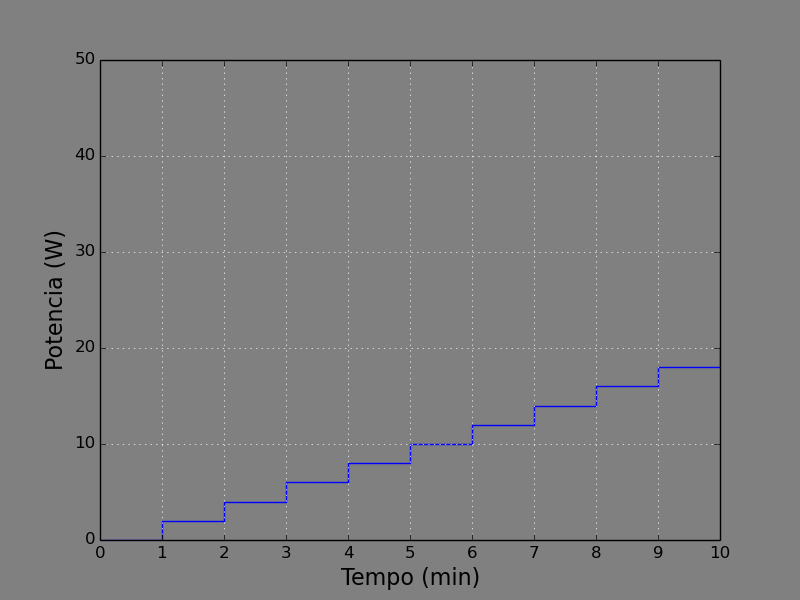
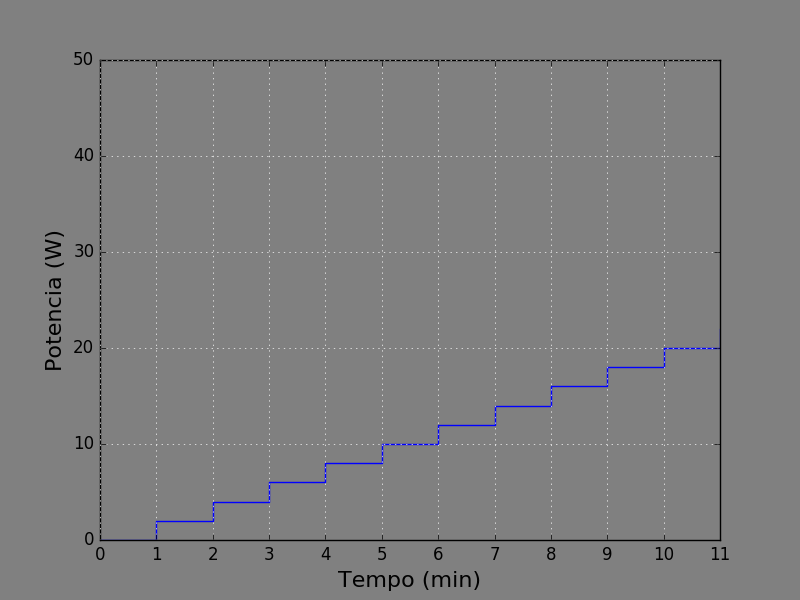
Thread para plotar no tela de escolha

diff --git a/PyQt/fifdialog.py b/PyQt/fifdialog.py
@@ -77,8 +77,8 @@ class Ui_fifDialog(object):
         self.pic.setScaledContents(True)
 
         # pylab_plot.plotMode(self,1)
-        # pixmap = QtGui.QPixmap('mode1.png')
-        # self.pic.setPixmap(pixmap)
+        pixmap = QtGui.QPixmap('mode1.png')
+        self.pic.setPixmap(pixmap)
         
         # self.frame.setFrameShape(QtGui.QFrame.StyledPanel)
         # self.frame.setFrameShadow(QtGui.QFrame.Raised)
@@ -125,8 +125,8 @@ class Ui_fifDialog(object):
         self.pushButton_3.setStyleSheet("font-weight:bold;background-color: gray;border-radius: 10px;")
         self.pushButton_4.setStyleSheet("font-weight:bold;background-color: gray;border-radius: 10px;")
         # pylab_plot.plotMode(self,1)
-        # pixmap = QtGui.QPixmap('mode1.png')
-        # self.pic.setPixmap(pixmap)  
+        pixmap = QtGui.QPixmap('mode1.png')
+        self.pic.setPixmap(pixmap)  
 
 
     def mode2 (self):
@@ -151,8 +151,8 @@ class Ui_fifDialog(object):
         self.pushButton_3.setStyleSheet("font-weight:bold;background-color: green;border-radius: 10px;")
         self.pushButton_4.setStyleSheet("font-weight:bold;background-color: gray;border-radius: 10px;")        
         # pylab_plot.plotMode(self,2)
-        # pixmap = QtGui.QPixmap('mode2.png')
-        # self.pic.setPixmap(pixmap)
+        pixmap = QtGui.QPixmap('mode2.png')
+        self.pic.setPixmap(pixmap)
 
 
 
@@ -177,8 +177,8 @@ class Ui_fifDialog(object):
         self.pushButton_3.setStyleSheet("font-weight:bold;background-color: gray;border-radius: 10px;")
         self.pushButton_4.setStyleSheet("font-weight:bold;background-color: red;border-radius: 10px;")
         # pylab_plot.plotMode(self,3) 
-        # pixmap = QtGui.QPixmap('mode3.png') 
-        # self.pic.setPixmap(pixmap)
+        pixmap = QtGui.QPixmap('mode3.png') 
+        self.pic.setPixmap(pixmap)
 
 
     def ok (self):

diff --git a/PyQt/pylab_plot.py b/PyQt/pylab_plot.py
@@ -16,23 +16,27 @@ def plotMode(mode):
 	os.listdir(os.getcwd())
 	img = "mode" + str(mode) + ".png"
 	# print img
-	sentence = [
-	"[ -f mode1.png ] && rm mode1.png",
-	"[ -f mode2.png ] && rm mode2.png",
-	"[ -f mode3.png ] && rm mode3.png"
-	]
+	# sentence = [
+	# "[ -f mode1.png ] && rm mode1.png",
+	# "[ -f mode2.png ] && rm mode2.png",
+	# "[ -f mode3.png ] && rm mode3.png"
+	# ]
+
+	sentence = "[ -f "+img+" ] && rm "+img
+	print sentence
+	os.system(sentence)
 	# print sentence
-	for k in range(len(sentence)):
-		os.system(sentence[k])
+	# for k in range(len(sentence)):
+	# 	os.system(sentence[k])
 
 
-	time_step = tempoStep[mode]
+	time_step = tempoStep[mode-1]
 	timeValue = 0 	#Tempo sempre inicia
-	potStep = potenciaStep[mode]
-	potValue = potenciaInicial[mode]
+	potStep = potenciaStep[mode-1]
+	potValue = potenciaInicial[mode-1]
 	y = [potValue]
 	x=[timeValue]
-	interval = tempo[mode]
+	interval = tempo[mode-1]
 
 	for n in range(interval/time_step):
 	# for n in range(int(interval/time_step)):
@@ -63,4 +67,3 @@ def plotMode(mode):
 	plt.axis([0, (interval), 0, 50])
 	fig.savefig(img, facecolor='gray', edgecolor='black')
 	plt.close()
-

diff --git a/PyQt/mode_operation.py b/PyQt/mode_operation.py
@@ -12,7 +12,7 @@ from thirddialog import Ui_thirdDialog
 from fifdialog import Ui_fifDialog
 from help_box import Ui_Dialog
 import parametros
-import time
+import pylab_plot
 
 try:
     _fromUtf8 = QtCore.QString.fromUtf8
@@ -112,10 +112,10 @@ class PlotterThread(QtCore.QThread):
     def __init__(self):
         QtCore.QThread.__init__(self)
 
-    def plot(self):
-        # time.sleep(4)
-        while True:
-            print "Done with the thread"
+    def run(self):
+        for option in range(1,4):
+            pylab_plot.plotMode(option)
+        print "Done with the thread"
 
 
 
